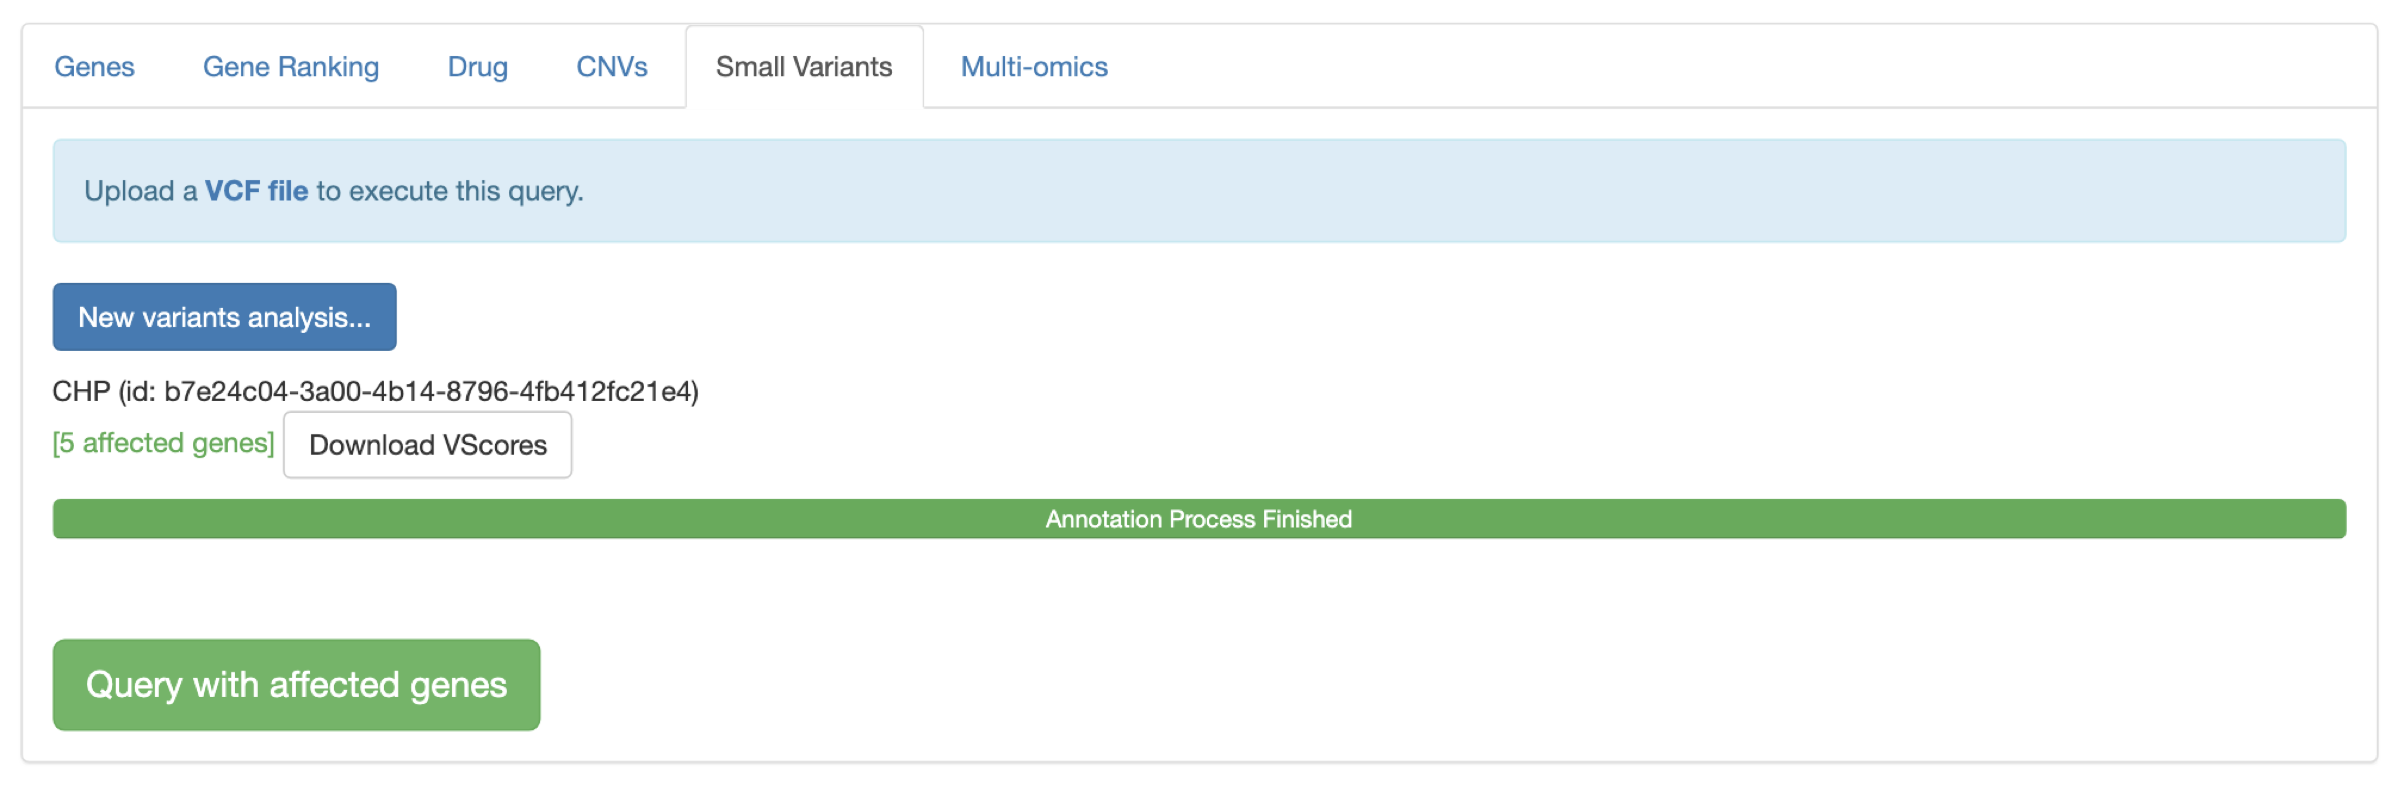
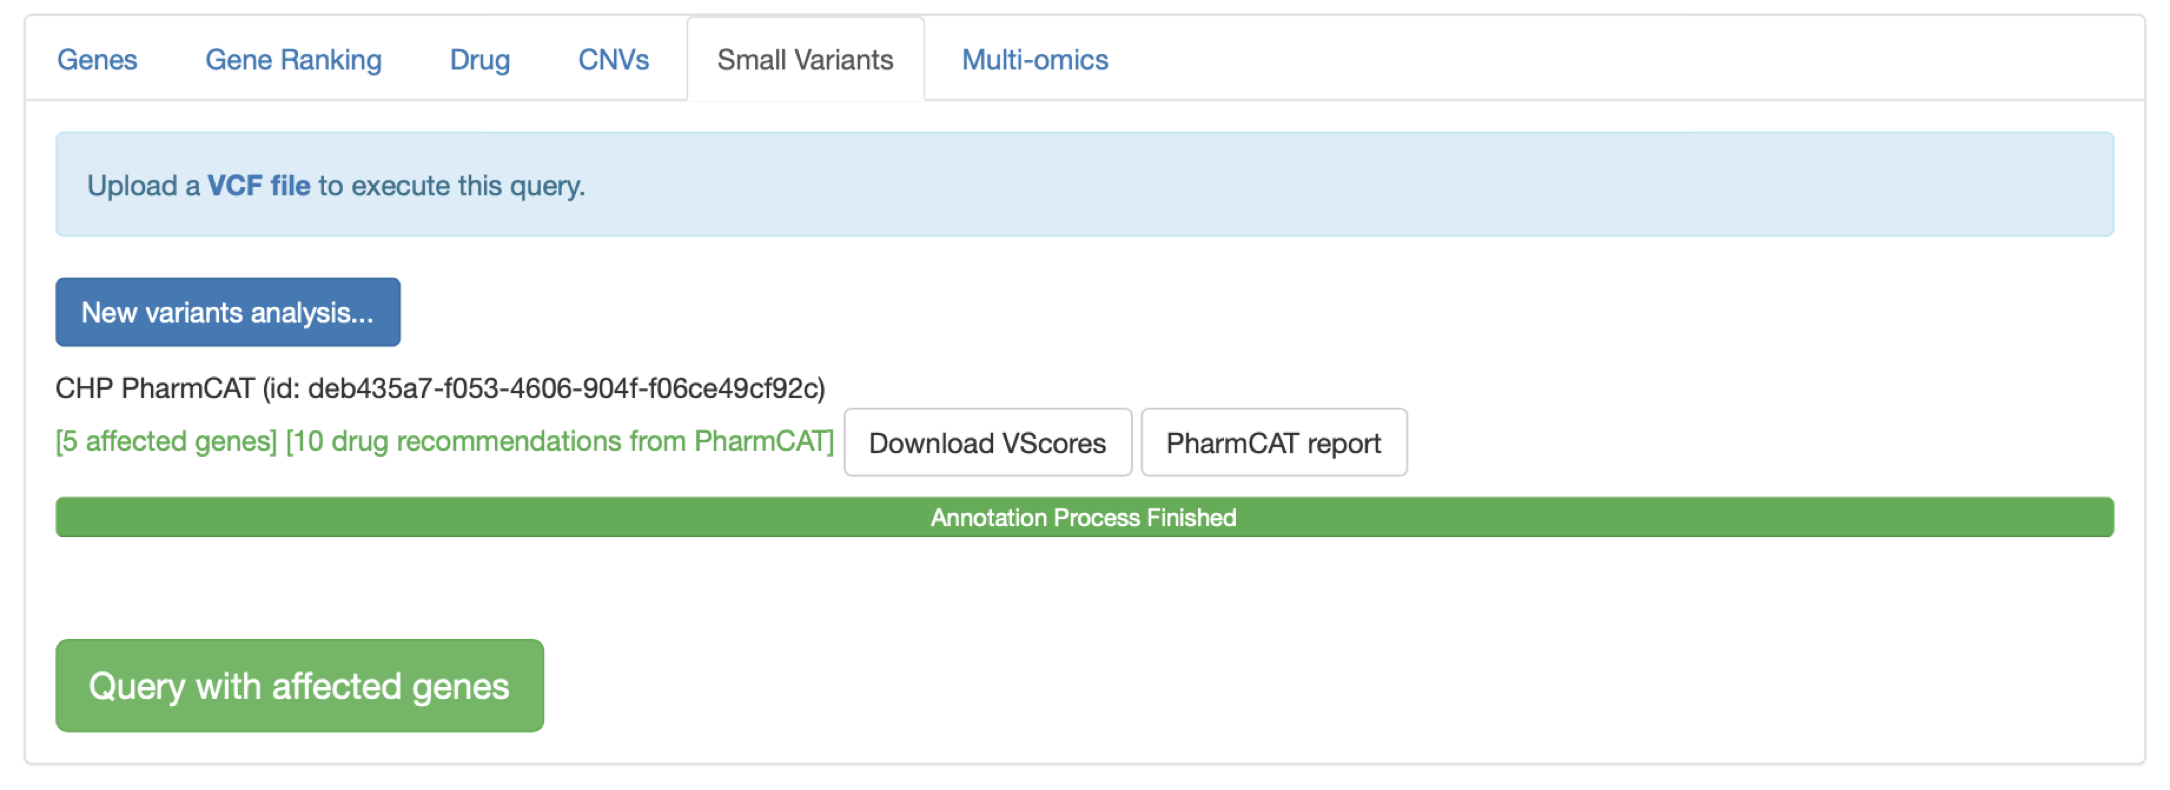
Update section 1.5

diff --git a/app/help/help.md b/app/help/help.md
@@ -97,10 +97,12 @@ To create a new analysis, click on <span style="color:#50AC50">**New variants an
 
 A message indicating that the computation has been successfully submitted will appear. In this message you will get a link in order to follow the computation progress.
 
+<!-- Update image -->
 <div style="text-align: left;"><img src="vcf-query-03.png" alt="Small Variants Query Submission Message" height="40%" width="40%"/>
 
 Moreover, if you come back to the <span style="color:#50AC50">**Small Variants**</span> tab or follow the link, you will notice a progress bar associated to your job. As the computation progresses, the completion of the different steps will be indicated in this progress bar.
 
+<!-- Update image -->
 <div style="text-align: left;"><img src="vcf-query-04.png" alt="Progress Bar" height="70%" width="70%"/>
 
 During this process, the somatic variants included in the VCF are annotated using Ensembl's [Variant Effect Predictor (VEP)](https://www.ensembl.org/info/docs/tools/vep/index.html) and additional databases. With these annotations, a Variant Score (VScore) is computed for each variant. The final GScore is then calculated as the maximum VScore for the principal transcript of each gene.
@@ -109,8 +111,9 @@ If you clicked on <span style="color:#50AC50">**PharmCAT analysis**</span>, the 
 
 Finally, when the progress bar is complete, you can query PanDrugsdb and obtain a ranking of treatments **tailored to the provided genomics profile**. If you clicked on <span style="color:#50AC50">**PharmCAT analysis**</span>, PanDrugs output will contain CPIC recommendations (if any) for the ranked drugs and a link to PharmCAT's report.
 
-Moreover, it is possible to download a tab delimited file with the annotations for each somatic variant and the corresponding VScore by clicking on <span style="color:#50AC50">**Download VScores**</span>.
+Moreover, it is possible to download a tab delimited file with the annotations for each somatic variant and the corresponding VScore by clicking on <span style="color:#50AC50">**Download VScores**</span> or the PharmCAT report by clicking on <span style="color:#50AC50">**PharmCAT report**</span>.
 
+<!-- Update image -->
 <div style="text-align: left;"><img src="vcf-query-05.png" alt="Progress Bar Completed" height="70%" width="70%"/>
 
 If you are logged in PanDrugs, the results of the query will be stored in your personal account. You will be able to access any previous analyses done within the last 6 months and select one of them to make a new query. That is why we encourage you to register [here](https://pandrugs.sing-group.org/#!/login). **Note that the germline variants used to query PharmCAT are deleted immediately and are not stored in our servers**.
